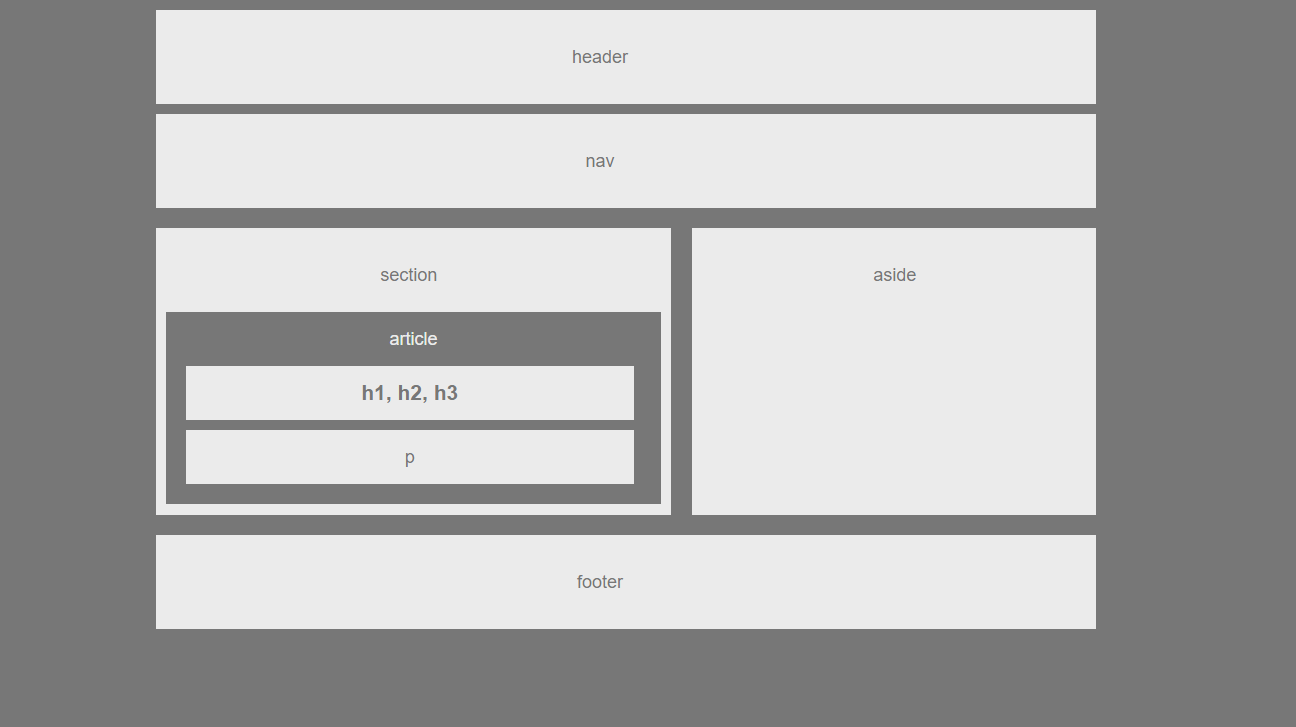
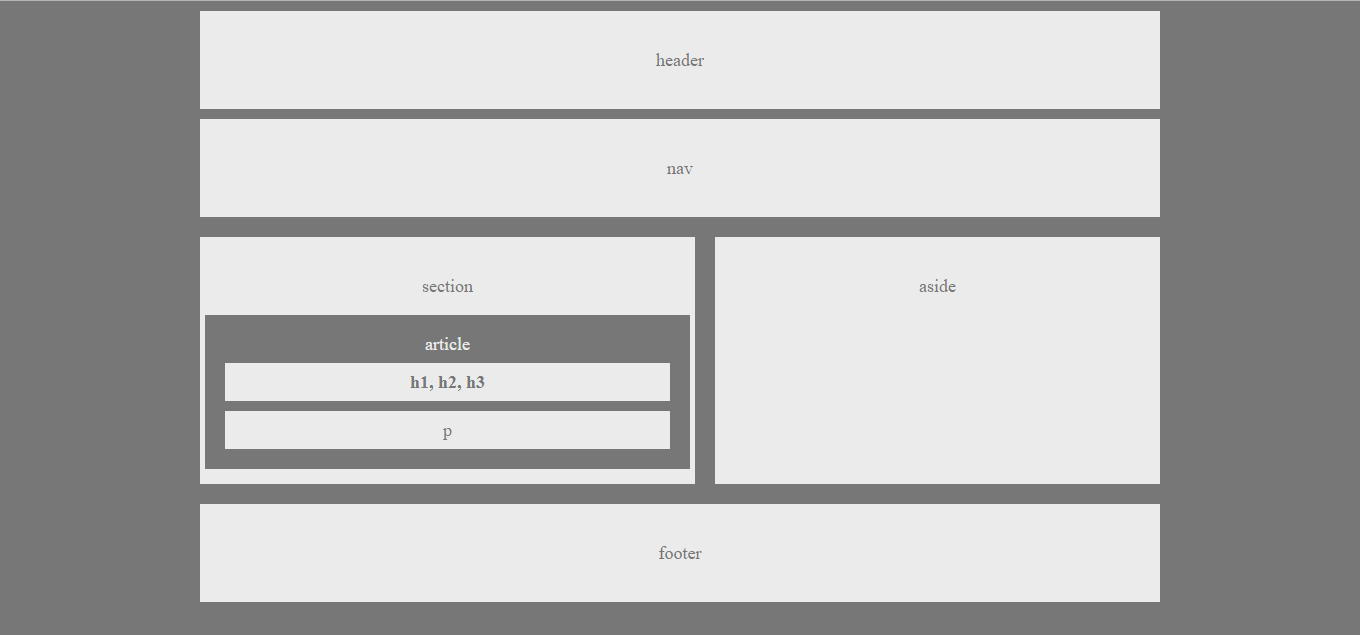
For Submission

Changed region(s): [[0.0926, 0.0, 0.8642, 0.9575], [0.679, 0.4488, 0.7099, 0.4787]]

diff --git a/style.css b/style.css
@@ -1,73 +1,62 @@
+body {
+    background: #777;
+    font-size: 18px;
+    color: #777;
+    width: 960px;
+    margin-right: auto;
+    margin-left: auto;
+}
+
 .wide-block {
     background: #ebebeb;
-    width: 960px;
     text-align: center;
-    padding: 9px;
-    padding-right: 0px;
-    padding-left: 0px;
-    margin-top: auto;
-    margin-bottom: 10px;
-    margin-left: auto;
-    margin-right: auto;
+    margin: 10px 0px 0px 0px;
+    padding: 40px;
     }
 
 .two-column {
+    height: 247px;
     width: 960px;
-    margin-right: auto;
-    margin-left: auto;
-    margin-top: 10px;
-    margin-bottom: 10px;
-    height: 310px;
-    }
+    margin: 20px 0px 20px 0px;
+}
 
 .section {
     background: #ebebeb;
+    text-align: center;
     width: 495px;
-    text-align: center;
-    padding: 10px;
     float: left;
-    margin-left: 0px;
-    margin-right: auto;
-    margin-bottom: 0px;
-}
-
-.aside {
-    box-sizing: border-box;
-    background: #ebebeb;
-    width: 425px;
-    text-align: center;
-    float: right;
-    margin-left: auto;
-    margin-right: 0px;
-    height: 100%;
-    padding: 10px 0px 0px 0px;
+    padding: 40px 0px 10px 0px;
 }
 
 .article {
     color:#ebebeb;
     background: #777777;
-    padding: 5px;
-    margin-left: 20px;
-    margin-right: 20px;
+    margin: 0px 5px 5px 5px;
+    padding: 20px 0px 20px 0px;
+    Margin-top: 20px;
 }
 
 .article-text {
     color:#777;
     background: #ebebeb;
-    padding: 3px;
-    margin: 10px 20px 20px 20px;
+    padding: 10px;
+    margin: 10px 20px 0px 20px;
 }
+
+.aside {
+    box-sizing: border-box;
+    background: #ebebeb;
+    width: 445px;
+    height: 100%;
+    float: right;
+    text-align: center;
+    padding: 40px;
+    }
 
 .footer {
     clear: both;
     background: #ebebeb;
-    width: 960px;
     text-align: center;
-    padding: 9px;
-    padding-right: 0px;
-    padding-left: 0px;
-    margin-top: auto;
-    margin-bottom: 10px;
-    margin-left: auto;
-    margin-right: auto;
+    padding: 40px;
+    margin: 10px 0px 0px 0px;
     }

diff --git a/index.html b/index.html
@@ -22,7 +22,7 @@
             <div class="article">
                 <p>article</p>
                 <div class="article-text">
-                    <p><strong>h1, h2, h3</strong></p>
+                    <p style="font-weight: bold">h1, h2, h3</p>
                 </div>
                 <div class="article-text">
                     <p>p</p>
@@ -34,6 +34,7 @@
         <div class="aside">
             <p>aside</p>
         </div>
+
     </div>
     
     <div class="footer">

diff --git a/README.md b/README.md
@@ -1,7 +1,6 @@
 # HW-Wireframe
 Learn html, css, floats, positioning.
 
-
 # Link to deployed site
 [HW-wireframe](https://aehaq.github.io/HW-Wireframe/)
 
@@ -16,12 +15,24 @@ Learn html, css, floats, positioning.
 # code snippets
 
 ```
-<div>
-    <h1>
-    </h1>
-</div>
-```
+.aside {
+    box-sizing: border-box;
+    background: #ebebeb;
+    width: 445px;
+    height: 100%;
+    float: right;
+    text-align: center;
+    padding: 40px;
+    }
 
+.footer {
+    clear: both;
+    background: #ebebeb;
+    text-align: center;
+    padding: 40px;
+    margin: 10px 0px 0px 0px;
+    }
+```
 
 # Learning points
 - Using a non-visible div as a container for side by side elements.
@@ -30,7 +41,7 @@ Learn html, css, floats, positioning.
 - Nesting multiple levels of containers.
 
 # Author 
-Azfar Haq - [Repository](https://github.com/aehaq/HW-Wireframe)
+Azfar Haq - [GitHub](https://github.com/aehaq)
 
 # License
 Standard MIT License
